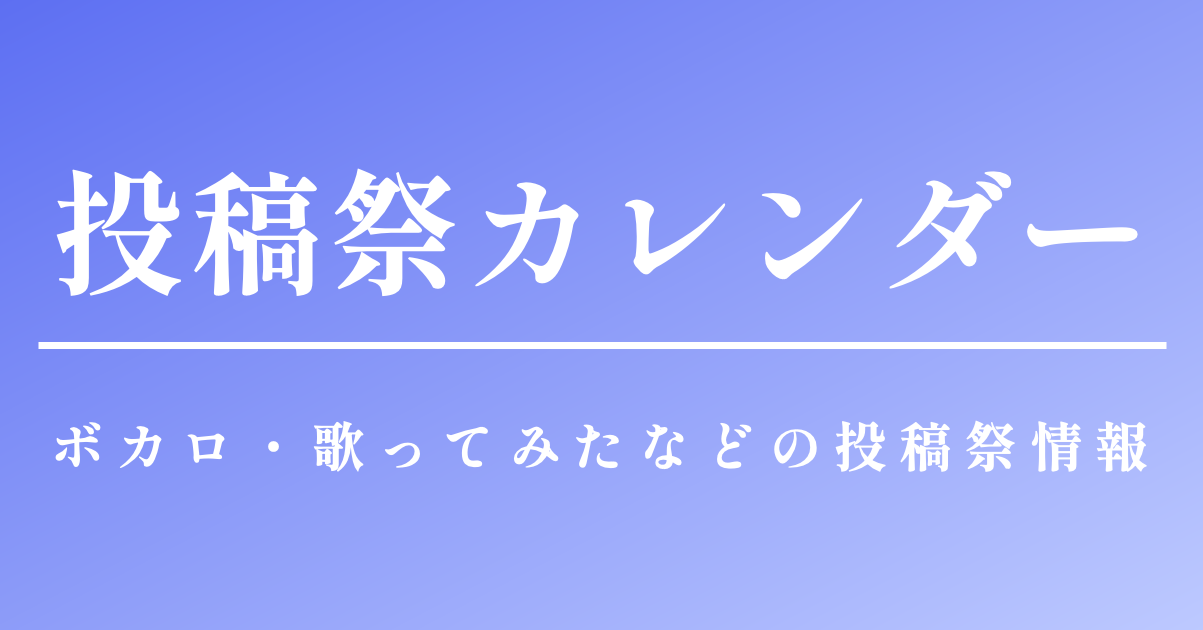
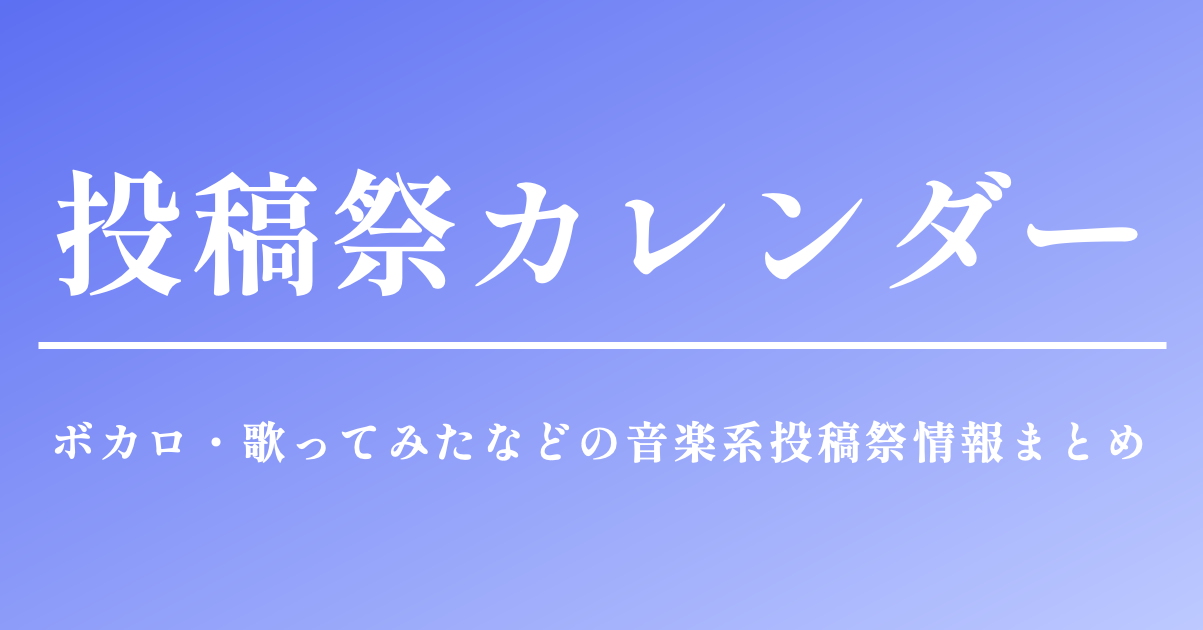
まとめリンクの追加

Changed region(s): [[0.0308, 0.6635, 0.9534, 0.754]]

diff --git a/src/app/links/page.tsx b/src/app/links/page.tsx
@@ -13,19 +13,29 @@ const relatedLinks: RelatedLink[] = [
   //   url: "https://example.com"
   // }
   {
+     name: "【2026年版】ニコニコで実施の投稿祭スケジュール",
+     description: "ニコニコインフォが公開している、2026年の投稿祭のスケジュール",
+     url: "https://blog.nicovideo.jp/niconews/271837.html"
+  },
+  {
+     name: "ニコニコ投稿祭ナビ",
+     description: "ニコニコの投稿祭を紹介・案内する公式Xアカウント",
+     url: "https://x.com/nico_usersevent"
+  },
+  {
+     name: "投稿祭サーチ",
+     description: "ニコニコの投稿祭や誕生祭の検索サイト",
+     url: "https://toukousai-search.nicoranweb.com/"
+  },
+  {
      name: "ボカロ投稿祭スケジュールまとめ！！",
-     description: "NorthP様が作成しているボカロ投稿祭まとめ",
+     description: "NorthP様が作成しているボカロ投稿祭のスケジュールまとめ",
      url: "https://note.com/northgazemusic/n/n1e334e5738f5"
   },
   {
      name: "ボカロ投稿祭・イベントスケジュールまとめ【日程表＋概要】",
-     description: "おゆひよこ様が作成しているボカロ投稿祭まとめ",
+     description: "おゆひよこ様が作成しているボカロ投稿祭や関連イベントの日程まとめ",
      url: "https://oyu-sound.com/vocaloid-event-matome/"
-  },
-  {
-     name: "【2026年版】ニコニコで実施の投稿祭スケジュール",
-     description: "ニコニコインフォの投稿祭スケジュールの紹介",
-     url: "https://blog.nicovideo.jp/niconews/271837.html"
   }
 ];
 
@@ -52,8 +62,9 @@ export default function LinksPage() {
       <section className="grid gap-5 md:grid-cols-2">
         <div className="rounded-3xl border border-white bg-white/90 p-6 shadow-lg shadow-indigo-100/40">
           <p className="text-xs font-black tracking-widest text-indigo-600">RELATED LINKS</p>
-          <h3 className="mt-2 text-xl font-black text-slate-900">その他の投稿祭まとめ</h3>
-          <p className="mt-2 text-sm leading-7 text-slate-600">他の方が作成されている投稿祭まとめへのリンクです。</p>
+          <h3 className="mt-2 text-xl font-black text-slate-900">その他の投稿祭情報サイト
+          </h3>
+          <p className="mt-2 text-sm leading-7 text-slate-600">このサイト以外の、投稿祭情報を探せるサイトなどを紹介します。</p>
           {relatedLinks.length ? <ul className="mt-5 space-y-3">{relatedLinks.map((link) => (
             <li key={link.url}>
               <a href={link.url} target="_blank" rel="noreferrer"

diff --git a/src/app/layout.tsx b/src/app/layout.tsx
@@ -14,7 +14,7 @@ export const metadata: Metadata = {
   },
 
   description:
-    "ボカロ曲や歌ってみたなどの投稿祭の情報をまとめた非公式サイトです。投稿祭の検索や開催日程の確認にご利用ください。",
+    "ボカロ、歌ってみた、演奏してみたなど、音楽に関する投稿祭・イベントの開催情報をまとめた非公式サイトです。",
 
   icons: {
     icon: `${siteUrl}/icon.png`,
@@ -27,7 +27,7 @@ export const metadata: Metadata = {
     siteName: "投稿祭カレンダー",
     title: "投稿祭カレンダー",
     description:
-      "ボカロ曲や歌ってみたなどの投稿祭の情報をまとめた非公式サイトです。",
+      "ボカロ、歌ってみた、演奏してみたなど、音楽に関する投稿祭・イベントの開催情報をまとめた非公式サイトです。",
     images: [
       {
         url: `${siteUrl}/og-image.png`,
@@ -42,7 +42,7 @@ export const metadata: Metadata = {
     card: "summary_large_image",
     title: "投稿祭カレンダー",
     description:
-      "ボカロ曲や歌ってみたなどの投稿祭の情報をまとめた非公式サイトです。",
+      "ボカロ、歌ってみた、演奏してみたなど、音楽に関する投稿祭・イベントの開催情報をまとめた非公式サイトです。",
     images: [`${siteUrl}/og-image.png`],
   },
 };

diff --git a/src/components/FestivalList.tsx b/src/components/FestivalList.tsx
@@ -112,8 +112,8 @@ export function FestivalList() {
         <p className="page-eyebrow">EXPLORE FESTIVALS</p>
         <h1>投稿祭を探す</h1>
         <p className="page-heading-description">
-          ニコニコ動画などで開催される、ボカロ曲や歌ってみたなどの投稿祭の情報をまとめた非公式サイトです。
-          気になる投稿祭を探したり、開催日程を確認したりする際に、ぜひご活用ください。
+          ニコニコ動画などで開催される、ボカロ曲や歌ってみたなどの音楽系投稿祭の情報をまとめた非公式サイトです。
+          投稿祭を探したり、開催日程を確認したりする際に、ぜひご活用ください。
         </p>
         <p className="page-heading-description">
           まだ掲載されていない投稿祭がありましたら、

diff --git a/src/app/register/page.tsx b/src/app/register/page.tsx
@@ -7,7 +7,7 @@ export default function RegisterPage() {
         <p className="page-eyebrow">SUBMIT INFORMATION</p>
         <h1>投稿祭登録</h1>
         <p className="page-heading-description">
-          このサイトに掲載するため、ボカロ曲や歌ってみたなどの投稿祭の情報を集めています。
+          このサイトに掲載するため、ボカロ曲や歌ってみたなどの音楽系投稿祭の情報を集めています。
         </p>
         <p className="page-heading-description">
           まだ掲載されていない投稿祭がありましたら、ぜひご登録ください。

diff --git a/src/components/SiteHeader.tsx b/src/components/SiteHeader.tsx
@@ -28,6 +28,7 @@ export function SiteHeader() {
           <span>
             <span className="site-brand-kicker">MUSIC & CREATIVE EVENTS</span>
             <span className="site-brand-title">投稿祭カレンダー</span>
+            <span className="block text-xs">音楽系投稿祭・イベント情報まとめ</span>
           </span>
         </Link>
 
